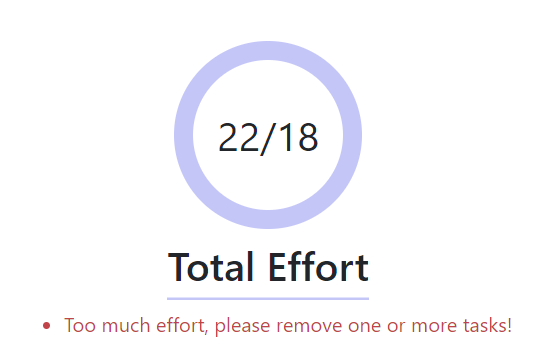
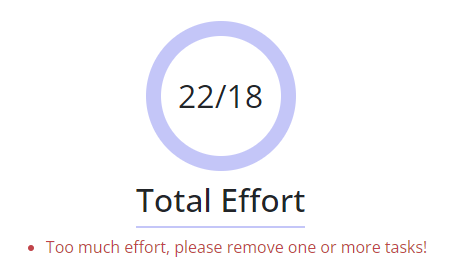
Created the Policy Page and made some layout fixes

diff --git a/TaskManagement/wwwroot/js/site.js b/TaskManagement/wwwroot/js/site.js
@@ -16,7 +16,12 @@ function viewDailyTasks(event) {
         monthString = "0" + (date.getMonth() + 1).toString()
     else
         monthString = (date.getMonth() + 1).toString()
-    let dateString = date.getFullYear().toString() + "-" + monthString + "-" + date.getDate().toString()
+    let dayString = ""
+    if (date.getDate() < 10)
+        dayString = "0" + date.getDate().toString()
+    else
+        dayString = date.getDate().toString()
+    let dateString = date.getFullYear().toString() + "-" + monthString + "-" + dayString
     location.href = "/DailyTasks?date=" + dateString
 }
 

diff --git a/TaskManagement/wwwroot/css/site.css b/TaskManagement/wwwroot/css/site.css
@@ -1,5 +1,7 @@
+@import url('https://fonts.googleapis.com/css2?family=Open+Sans:wght@400;500;600;700&display=swap');
+
 html {
-  font-size: 14px;
+    font-size: 14px;
 }
 
 @media (min-width: 768px) {
@@ -20,13 +22,18 @@ html {
     -webkit-box-shadow: inset 0 0 8px rgba(0,0,0,0.3);
 }
 
+::-webkit-scrollbar-thumb:hover {
+    -webkit-box-shadow: inset 0 0 10px rgba(0,0,0,0.5);
+}
+
 html {
   position: relative;
   min-height: 100%;
 }
 
 body {
-  margin-bottom: 60px;
+    margin-bottom: 60px;
+    font-family: "Open Sans", sans-serif;
 }
 
 .parent {
